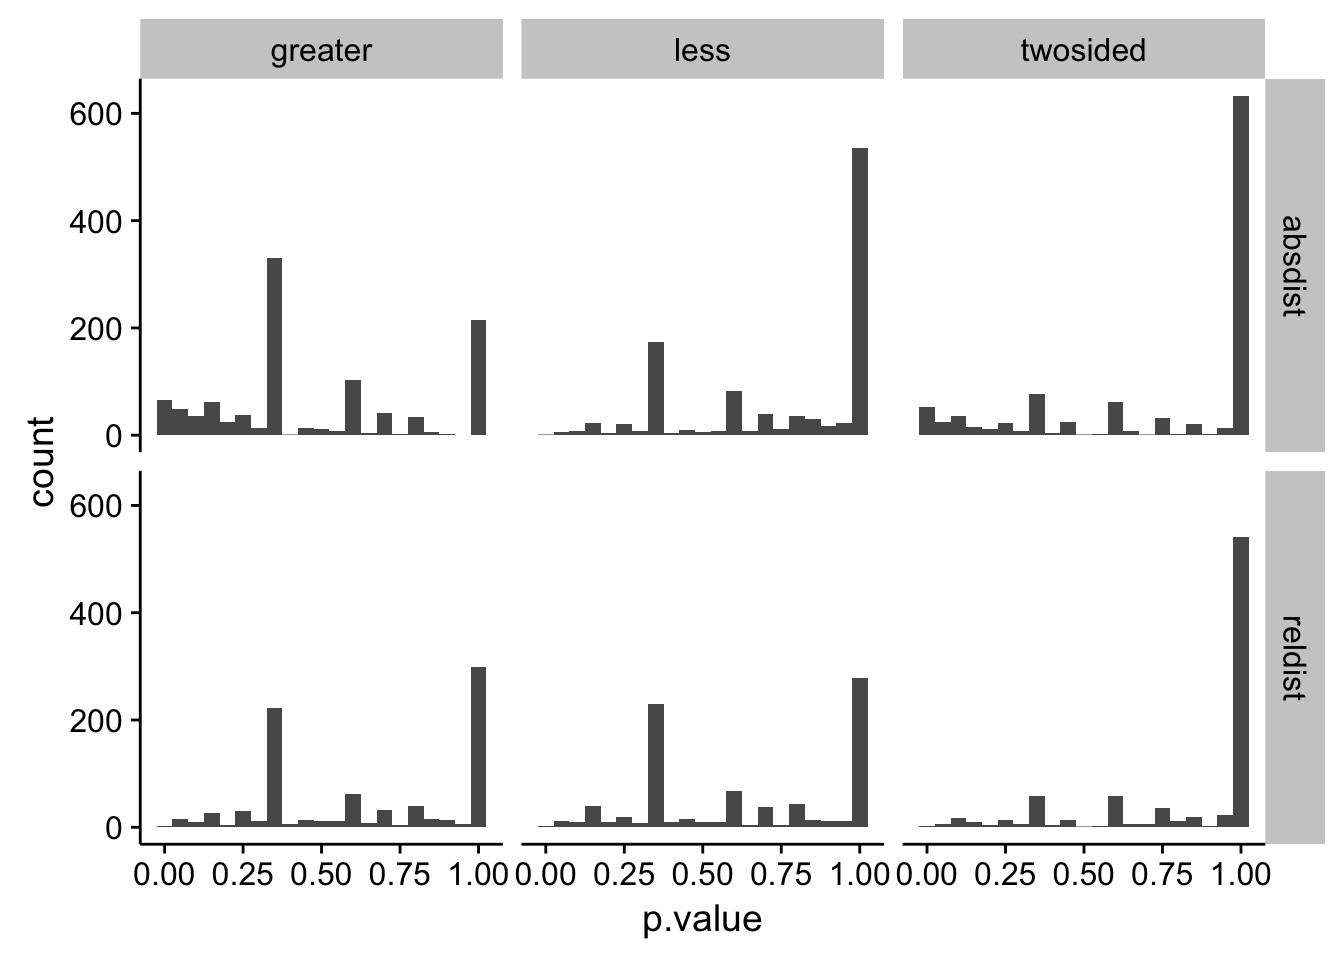
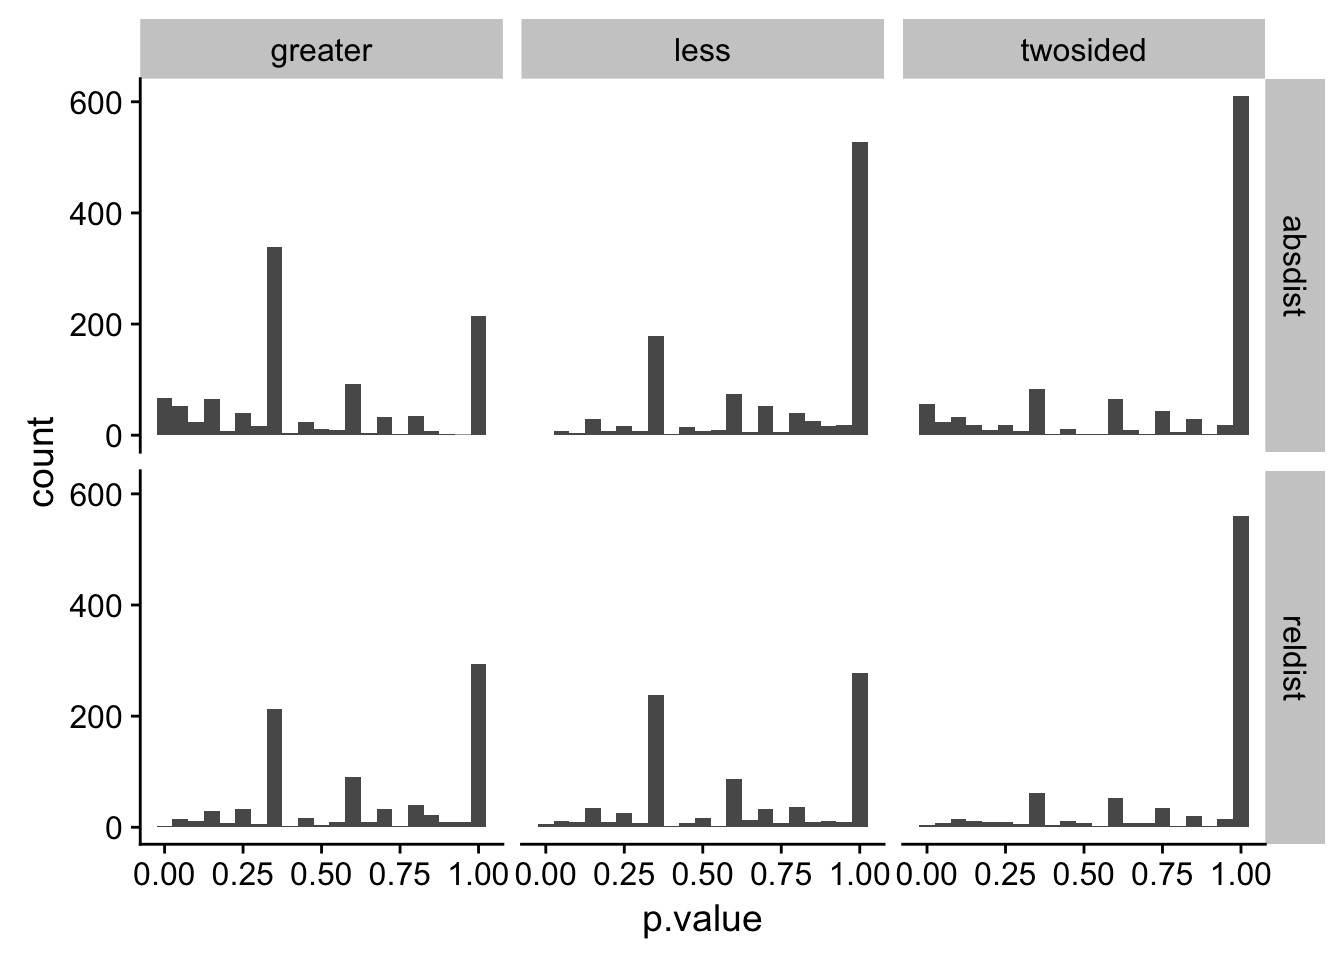
re-pkg [ci skip]

diff --git a/docs/articles/benchmarks.html b/docs/articles/benchmarks.html
@@ -74,7 +74,7 @@
     <div class="page-header toc-ignore">
       <h1>Benchmarks</h1>
             
-            <h4 class="date">July 23 2017</h4>
+            <h4 class="date">August 22 2017</h4>
           </div>
 
     
@@ -87,64 +87,65 @@
 #&gt;  ui       unknown                     
 #&gt;  language (EN)                        
 #&gt;  collate  en_US.UTF-8                 
-#&gt;  tz       America/Denver              
-#&gt;  date     2017-07-23                  
+#&gt;  tz       America/New_York            
+#&gt;  date     2017-08-22                  
 #&gt; 
-#&gt;  package        * version    date       source                        
-#&gt;  assertthat       0.2.0      2017-04-11 CRAN (R 3.4.0)                
-#&gt;  backports        1.1.0      2017-05-22 CRAN (R 3.4.0)                
-#&gt;  base           * 3.4.1      2017-07-07 local                         
-#&gt;  bindr            0.1        2016-11-13 CRAN (R 3.4.0)                
-#&gt;  bindrcpp       * 0.2        2017-06-17 CRAN (R 3.4.0)                
-#&gt;  broom            0.4.2      2017-02-13 CRAN (R 3.4.0)                
-#&gt;  colorspace       1.3-2      2016-12-14 CRAN (R 3.4.0)                
-#&gt;  compiler         3.4.1      2017-07-07 local                         
-#&gt;  datasets       * 3.4.1      2017-07-07 local                         
-#&gt;  devtools       * 1.13.2     2017-06-02 CRAN (R 3.4.0)                
-#&gt;  digest           0.6.12     2017-01-27 CRAN (R 3.4.0)                
-#&gt;  dplyr          * 0.7.2      2017-07-20 cran (@0.7.2)                 
-#&gt;  evaluate         0.10.1     2017-06-24 CRAN (R 3.4.0)                
-#&gt;  foreign          0.8-69     2017-06-22 CRAN (R 3.4.1)                
-#&gt;  ggplot2        * 2.2.1      2016-12-30 CRAN (R 3.4.0)                
-#&gt;  glue             1.1.1      2017-06-21 CRAN (R 3.4.0)                
-#&gt;  graphics       * 3.4.1      2017-07-07 local                         
-#&gt;  grDevices      * 3.4.1      2017-07-07 local                         
-#&gt;  grid             3.4.1      2017-07-07 local                         
-#&gt;  gtable           0.2.0      2016-02-26 CRAN (R 3.4.0)                
-#&gt;  hms              0.3        2016-11-22 CRAN (R 3.4.0)                
-#&gt;  htmltools        0.3.6      2017-04-28 CRAN (R 3.4.0)                
-#&gt;  knitr            1.16       2017-05-18 CRAN (R 3.4.0)                
-#&gt;  labeling         0.3        2014-08-23 CRAN (R 3.4.0)                
-#&gt;  lattice          0.20-35    2017-03-25 CRAN (R 3.4.1)                
-#&gt;  lazyeval         0.2.0      2016-06-12 CRAN (R 3.4.0)                
-#&gt;  magrittr         1.5        2014-11-22 CRAN (R 3.4.0)                
-#&gt;  memoise          1.1.0      2017-04-21 CRAN (R 3.4.0)                
-#&gt;  methods        * 3.4.1      2017-07-07 local                         
-#&gt;  microbenchmark * 1.4-2.1    2015-11-25 CRAN (R 3.4.1)                
-#&gt;  mnormt           1.5-5      2016-10-15 CRAN (R 3.4.0)                
-#&gt;  munsell          0.4.3      2016-02-13 CRAN (R 3.4.0)                
-#&gt;  nlme             3.1-131    2017-02-06 CRAN (R 3.4.1)                
-#&gt;  parallel         3.4.1      2017-07-07 local                         
-#&gt;  pkgconfig        2.0.1      2017-03-21 CRAN (R 3.4.0)                
-#&gt;  plyr             1.8.4      2016-06-08 CRAN (R 3.4.0)                
-#&gt;  psych            1.7.5      2017-05-03 CRAN (R 3.4.0)                
-#&gt;  R6               2.2.2      2017-06-17 CRAN (R 3.4.0)                
-#&gt;  Rcpp             0.12.12    2017-07-15 CRAN (R 3.4.1)                
-#&gt;  readr            1.1.1      2017-05-16 CRAN (R 3.4.0)                
-#&gt;  reshape2         1.4.2      2016-10-22 CRAN (R 3.4.0)                
-#&gt;  rlang            0.1.1.9000 2017-07-06 Github (hadley/rlang@ff87439) 
-#&gt;  rmarkdown        1.6        2017-06-15 CRAN (R 3.4.0)                
-#&gt;  rprojroot        1.2        2017-01-16 CRAN (R 3.4.0)                
-#&gt;  scales         * 0.4.1      2016-11-09 CRAN (R 3.4.0)                
-#&gt;  stats          * 3.4.1      2017-07-07 local                         
-#&gt;  stringi          1.1.5      2017-04-07 CRAN (R 3.4.0)                
-#&gt;  stringr          1.2.0      2017-02-18 CRAN (R 3.4.0)                
-#&gt;  tibble         * 1.3.3      2017-05-28 CRAN (R 3.4.0)                
-#&gt;  tidyr            0.6.3      2017-05-15 CRAN (R 3.4.0)                
-#&gt;  tools            3.4.1      2017-07-07 local                         
-#&gt;  utils          * 3.4.1      2017-07-07 local                         
-#&gt;  valr           * 0.3.1.9000 2017-07-22 Github (rnabioco/valr@79009d1)
-#&gt;  withr            1.0.2      2016-06-20 CRAN (R 3.4.0)                
+#&gt;  package        * version    date       source                          
+#&gt;  assertthat       0.2.0      2017-04-11 CRAN (R 3.4.0)                  
+#&gt;  backports        1.1.0      2017-05-22 CRAN (R 3.4.0)                  
+#&gt;  base           * 3.4.1      2017-07-07 local                           
+#&gt;  bindr            0.1        2016-11-13 CRAN (R 3.4.0)                  
+#&gt;  bindrcpp       * 0.2        2017-06-17 CRAN (R 3.4.0)                  
+#&gt;  broom            0.4.2      2017-02-13 CRAN (R 3.4.0)                  
+#&gt;  colorspace       1.3-2      2016-12-14 CRAN (R 3.4.0)                  
+#&gt;  compiler         3.4.1      2017-07-07 local                           
+#&gt;  datasets       * 3.4.1      2017-07-07 local                           
+#&gt;  devtools       * 1.13.3     2017-08-02 CRAN (R 3.4.1)                  
+#&gt;  digest           0.6.12     2017-01-27 CRAN (R 3.4.0)                  
+#&gt;  dplyr          * 0.7.2      2017-07-20 cran (@0.7.2)                   
+#&gt;  evaluate         0.10.1     2017-06-24 CRAN (R 3.4.0)                  
+#&gt;  foreign          0.8-69     2017-06-22 CRAN (R 3.4.1)                  
+#&gt;  ggplot2        * 2.2.1      2016-12-30 CRAN (R 3.4.0)                  
+#&gt;  glue             1.1.1      2017-06-21 CRAN (R 3.4.0)                  
+#&gt;  graphics       * 3.4.1      2017-07-07 local                           
+#&gt;  grDevices      * 3.4.1      2017-07-07 local                           
+#&gt;  grid             3.4.1      2017-07-07 local                           
+#&gt;  gtable           0.2.0      2016-02-26 CRAN (R 3.4.0)                  
+#&gt;  hms              0.3        2016-11-22 CRAN (R 3.4.0)                  
+#&gt;  htmltools        0.3.6      2017-04-28 CRAN (R 3.4.0)                  
+#&gt;  knitr            1.17       2017-08-10 CRAN (R 3.4.1)                  
+#&gt;  labeling         0.3        2014-08-23 CRAN (R 3.4.0)                  
+#&gt;  lattice          0.20-35    2017-03-25 CRAN (R 3.4.1)                  
+#&gt;  lazyeval         0.2.0      2016-06-12 CRAN (R 3.4.0)                  
+#&gt;  magrittr         1.5        2014-11-22 CRAN (R 3.4.0)                  
+#&gt;  memoise          1.1.0      2017-04-21 CRAN (R 3.4.0)                  
+#&gt;  methods        * 3.4.1      2017-07-07 local                           
+#&gt;  microbenchmark * 1.4-2.1    2015-11-25 CRAN (R 3.4.1)                  
+#&gt;  mnormt           1.5-5      2016-10-15 CRAN (R 3.4.0)                  
+#&gt;  munsell          0.4.3      2016-02-13 CRAN (R 3.4.0)                  
+#&gt;  nlme             3.1-131    2017-02-06 CRAN (R 3.4.1)                  
+#&gt;  parallel         3.4.1      2017-07-07 local                           
+#&gt;  pkgconfig        2.0.1      2017-03-21 CRAN (R 3.4.0)                  
+#&gt;  plyr             1.8.4      2016-06-08 CRAN (R 3.4.0)                  
+#&gt;  psych            1.7.5      2017-05-03 CRAN (R 3.4.0)                  
+#&gt;  purrr            0.2.3      2017-08-02 cran (@0.2.3)                   
+#&gt;  R6               2.2.2      2017-06-17 CRAN (R 3.4.0)                  
+#&gt;  Rcpp             0.12.12    2017-07-15 CRAN (R 3.4.1)                  
+#&gt;  readr            1.1.1      2017-05-16 CRAN (R 3.4.0)                  
+#&gt;  reshape2         1.4.2      2016-10-22 CRAN (R 3.4.0)                  
+#&gt;  rlang            0.1.2.9000 2017-08-22 Github (tidyverse/rlang@f20124b)
+#&gt;  rmarkdown        1.6        2017-06-15 CRAN (R 3.4.0)                  
+#&gt;  rprojroot        1.2        2017-01-16 CRAN (R 3.4.0)                  
+#&gt;  scales         * 0.4.1      2016-11-09 CRAN (R 3.4.0)                  
+#&gt;  stats          * 3.4.1      2017-07-07 local                           
+#&gt;  stringi          1.1.5      2017-04-07 CRAN (R 3.4.0)                  
+#&gt;  stringr          1.2.0      2017-02-18 CRAN (R 3.4.0)                  
+#&gt;  tibble         * 1.3.4      2017-08-22 cran (@1.3.4)                   
+#&gt;  tidyr            0.7.0      2017-08-16 CRAN (R 3.4.1)                  
+#&gt;  tools            3.4.1      2017-07-07 local                           
+#&gt;  utils          * 3.4.1      2017-07-07 local                           
+#&gt;  valr           * 0.3.1.9000 2017-08-17 local                           
+#&gt;  withr            2.0.0      2017-07-28 CRAN (R 3.4.1)                  
 #&gt;  yaml             2.1.14     2016-11-12 CRAN (R 3.4.0)</code></pre>
 </div>
   </div>

diff --git a/docs/articles/interval-stats.html b/docs/articles/interval-stats.html
@@ -76,7 +76,7 @@
     <div class="page-header toc-ignore">
       <h1>Interval statistics</h1>
             
-            <h4 class="date">July 23 2017</h4>
+            <h4 class="date">August 22 2017</h4>
           </div>
 
     
@@ -137,7 +137,7 @@ tss
        <span class="dt">absdist =</span> <span class="kw"><a href="../reference/bed_absdist.html">bed_absdist</a></span>(., y, genome) <span class="op">%&gt;%</span>
 <span class="st">         </span><span class="kw"><a href="http://dplyr.tidyverse.org/reference/select.html">select</a></span>(<span class="dt">.value =</span> .absdist)
        ) <span class="op">%&gt;%</span>
-<span class="st">    </span>tidyr<span class="op">::</span><span class="kw"><a href="http://www.rdocumentation.org/packages/tidyr/topics/gather_">gather_</a></span>(<span class="st">'stat'</span>, <span class="st">'value'</span>, <span class="kw"><a href="http://dplyr.tidyverse.org/reference/setops.html">setdiff</a></span>(<span class="kw">names</span>(.), <span class="kw">list</span>(group_var))) <span class="op">%&gt;%</span>
+<span class="st">    </span>tidyr<span class="op">::</span><span class="kw"><a href="http://www.rdocumentation.org/packages/tidyr/topics/deprecated-se">gather_</a></span>(<span class="st">'stat'</span>, <span class="st">'value'</span>, <span class="kw"><a href="http://dplyr.tidyverse.org/reference/setops.html">setdiff</a></span>(<span class="kw">names</span>(.), <span class="kw">list</span>(group_var))) <span class="op">%&gt;%</span>
 <span class="st">    </span><span class="kw"><a href="http://dplyr.tidyverse.org/reference/mutate.html">mutate</a></span>(<span class="dt">type =</span> type)
 } </code></pre></div>
 <p>We use the <code>distance_stats()</code> function to apply the <code><a href="../reference/bed_absdist.html">bed_absdist()</a></code> function to each group of data.</p>
@@ -177,21 +177,21 @@ shf_stats &lt;-<span class="st"> </span><span class="kw">distance_stats</span>(s
 <span class="st">  </span><span class="kw">na.omit</span>()
 
 res
-<span class="co">#&gt; # A tibble: 16,731 x 5</span>
-<span class="co">#&gt; # Groups:   name, stat [1,900]</span>
+<span class="co">#&gt; # A tibble: 16,841 x 5</span>
+<span class="co">#&gt; # Groups:   name, stat [1,909]</span>
 <span class="co">#&gt;     name    stat   .id     obs     shuf</span>
 <span class="co">#&gt;    &lt;chr&gt;   &lt;chr&gt; &lt;int&gt;   &lt;dbl&gt;    &lt;dbl&gt;</span>
-<span class="co">#&gt;  1  (A)n absdist     1 5120782 16157064</span>
-<span class="co">#&gt;  2  (A)n absdist     2  226477 15261674</span>
-<span class="co">#&gt;  3  (A)n absdist     3   31242 13210825</span>
-<span class="co">#&gt;  4  (A)n absdist     4    8930 11831284</span>
-<span class="co">#&gt;  5  (A)n absdist     5   41316  9457102</span>
-<span class="co">#&gt;  6  (A)n absdist     6   22519  4513513</span>
-<span class="co">#&gt;  7  (A)n absdist     7   15173  2182020</span>
-<span class="co">#&gt;  8  (A)n absdist     8   21985  1783307</span>
-<span class="co">#&gt;  9  (A)n absdist     9   13458    10590</span>
-<span class="co">#&gt; 10  (A)n absdist    10  134007    22867</span>
-<span class="co">#&gt; # ... with 16,721 more rows</span></code></pre></div>
+<span class="co">#&gt;  1  (A)n absdist     1 5120782 15091728</span>
+<span class="co">#&gt;  2  (A)n absdist     2  226477 14401920</span>
+<span class="co">#&gt;  3  (A)n absdist     3   31242 13317255</span>
+<span class="co">#&gt;  4  (A)n absdist     4    8930  9091216</span>
+<span class="co">#&gt;  5  (A)n absdist     5   41316  6522200</span>
+<span class="co">#&gt;  6  (A)n absdist     6   22519  4065608</span>
+<span class="co">#&gt;  7  (A)n absdist     7   15173  1785800</span>
+<span class="co">#&gt;  8  (A)n absdist     8   21985    12410</span>
+<span class="co">#&gt;  9  (A)n absdist     9   13458    14101</span>
+<span class="co">#&gt; 10  (A)n absdist    10  134007     2618</span>
+<span class="co">#&gt; # ... with 16,831 more rows</span></code></pre></div>
 <p>Now that the data are formatted, we can use the non-parametric <code>ks.test()</code> to determine whether there are significant differences between the observed and shuffled data for each group. <code><a href="http://www.rdocumentation.org/packages/broom/topics/tidy">broom::tidy()</a></code> is used to reformat the results of each test into a <code>data_frame</code>, and the results of each test are <code>gather</code>ed to into a <code>type</code> column for each test type.</p>
 <div class="sourceCode"><pre class="sourceCode r"><code class="sourceCode r"><span class="kw">library</span>(broom)
 
@@ -328,8 +328,8 @@ signif_tests &lt;-
 <span class="st">  </span><span class="kw"><a href="http://dplyr.tidyverse.org/reference/arrange.html">arrange</a></span>(type)
 
 DT<span class="op">::</span><span class="kw"><a href="http://www.rdocumentation.org/packages/DT/topics/datatable">datatable</a></span>(signif_tests)</code></pre></div>
-<div id="htmlwidget-ae66b66d7c10a952267a" style="width:100%;height:auto;" class="datatables html-widget"></div>
-<script type="application/json" data-for="htmlwidget-ae66b66d7c10a952267a">{"x":{"filter":"none","data":[["1","2","3","4","5","6","7","8","9","10"],["AluSx1","AluSx3","AluJb","Charlie4z","AluSz","MER3","L1MC4a","L1ME1","G-rich","L1MC5"],["coding","coding","coding","coding","coding","non_coding","non_coding","non_coding","non_coding","non_coding"],[364,95,271,11,259,27,23,38,54,29],[1.13727959125676e-05,0.000142248310274207,0.00022198786170069,0.00122898000927452,0.00131822309756457,2.70117007751258e-05,0.000144755028319676,0.000203406678286999,0.000217198716728206,0.000456128135381095],[2.10614752188776,2.91411990455348,2.04310989618141,5.80786134823596,1.89110543256589,8.14944717831681,7.65339387181057,5.79039667933037,4.88966830699009,6.06993307074632],["FALSE","FALSE","FALSE","FALSE","FALSE","FALSE","FALSE","FALSE","FALSE","FALSE"],[0.00203573046834959,0.0251779509185346,0.0384039000742193,0.205239661548844,0.218825034195719,0.0048080827379724,0.025476884984263,0.0355961687002249,0.0377925767107079,0.0784540392855484]],"container":"<table class=\"display\">\n  <thead>\n    <tr>\n      <th> <\/th>\n      <th>name<\/th>\n      <th>type<\/th>\n      <th>n_repeats<\/th>\n      <th>p.value<\/th>\n      <th>obs_exp_ratio<\/th>\n      <th>lower_tail<\/th>\n      <th>q.value<\/th>\n    <\/tr>\n  <\/thead>\n<\/table>","options":{"columnDefs":[{"className":"dt-right","targets":[3,4,5,7]},{"orderable":false,"targets":0}],"order":[],"autoWidth":false,"orderClasses":false}},"evals":[],"jsHooks":[]}</script>
+<div id="htmlwidget-670cdfce383e11c5e338" style="width:100%;height:auto;" class="datatables html-widget"></div>
+<script type="application/json" data-for="htmlwidget-670cdfce383e11c5e338">{"x":{"filter":"none","data":[["1","2","3","4","5","6","7","8","9","10"],["AluSx1","AluSx3","AluJb","Charlie4z","AluSz","MER3","L1MC4a","L1ME1","G-rich","L1MC5"],["coding","coding","coding","coding","coding","non_coding","non_coding","non_coding","non_coding","non_coding"],[364,95,271,11,259,27,23,38,54,29],[1.13727959125676e-05,0.000142248310274207,0.00022198786170069,0.00122898000927452,0.00131822309756457,2.70117007751258e-05,0.000144755028319676,0.000203406678286999,0.000217198716728206,0.000456128135381095],[2.10614752188776,2.91411990455348,2.04310989618141,5.80786134823596,1.89110543256589,8.14944717831681,7.65339387181057,5.79039667933037,4.88966830699009,6.06993307074632],["FALSE","FALSE","FALSE","FALSE","FALSE","FALSE","FALSE","FALSE","FALSE","FALSE"],[0.00203573046834959,0.0251779509185346,0.0384039000742193,0.205239661548844,0.218825034195719,0.0048080827379724,0.025476884984263,0.0355961687002249,0.0377925767107079,0.0784540392855484]],"container":"<table class=\"display\">\n  <thead>\n    <tr>\n      <th> <\/th>\n      <th>name<\/th>\n      <th>type<\/th>\n      <th>n_repeats<\/th>\n      <th>p.value<\/th>\n      <th>obs_exp_ratio<\/th>\n      <th>lower_tail<\/th>\n      <th>q.value<\/th>\n    <\/tr>\n  <\/thead>\n<\/table>","options":{"columnDefs":[{"className":"dt-right","targets":[3,4,5,7]},{"orderable":false,"targets":0}],"order":[],"autoWidth":false,"orderClasses":false}},"evals":[],"jsHooks":[]}</script>
 </div>
 </div>
   </div>

diff --git a/docs/reference/as.tbl_interval.html b/docs/reference/as.tbl_interval.html
@@ -130,15 +130,15 @@ objects.</p>
 
     <h2 class="hasAnchor" id="examples"><a class="anchor" href="#examples"></a>Examples</h2>
     <pre class="examples"><span class='co'># NOT RUN {</span>
-<span class='no'>gr</span> <span class='kw'>&lt;-</span> <span class='kw pkg'>GenomicRanges</span><span class='kw ns'>::</span><span class='fu'>GRanges</span>(
-        <span class='kw'>seqnames</span> <span class='kw'>=</span> <span class='kw pkg'>S4Vectors</span><span class='kw ns'>::</span><span class='fu'>Rle</span>(
+<span class='no'>gr</span> <span class='kw'>&lt;-</span> <span class='kw pkg'>GenomicRanges</span><span class='kw ns'>::</span><span class='fu'><a href='http://www.rdocumentation.org/packages/GenomicRanges/topics/GRanges-class'>GRanges</a></span>(
+        <span class='kw'>seqnames</span> <span class='kw'>=</span> <span class='kw pkg'>S4Vectors</span><span class='kw ns'>::</span><span class='fu'><a href='http://www.rdocumentation.org/packages/S4Vectors/topics/Rle-class'>Rle</a></span>(
                      <span class='fu'>c</span>(<span class='st'>"chr1"</span>, <span class='st'>"chr2"</span>, <span class='st'>"chr1"</span>, <span class='st'>"chr3"</span>),
                      <span class='fu'>c</span>(<span class='fl'>1</span>, <span class='fl'>1</span>, <span class='fl'>1</span>, <span class='fl'>1</span>)),
-        <span class='kw'>ranges</span>   <span class='kw'>=</span> <span class='kw pkg'>IRanges</span><span class='kw ns'>::</span><span class='fu'>IRanges</span>(
+        <span class='kw'>ranges</span>   <span class='kw'>=</span> <span class='kw pkg'>IRanges</span><span class='kw ns'>::</span><span class='fu'><a href='http://www.rdocumentation.org/packages/IRanges/topics/IRanges-constructor'>IRanges</a></span>(
                      <span class='kw'>start</span> <span class='kw'>=</span> <span class='fu'>c</span>(<span class='fl'>1</span>, <span class='fl'>10</span>, <span class='fl'>50</span>, <span class='fl'>100</span>),
                      <span class='kw'>end</span> <span class='kw'>=</span> <span class='fu'>c</span>(<span class='fl'>100</span>, <span class='fl'>500</span>, <span class='fl'>1000</span>, <span class='fl'>2000</span>),
                      <span class='kw'>names</span> <span class='kw'>=</span> <span class='fu'>head</span>(<span class='no'>letters</span>, <span class='fl'>4</span>)),
-        <span class='kw'>strand</span>   <span class='kw'>=</span> <span class='kw pkg'>S4Vectors</span><span class='kw ns'>::</span><span class='fu'>Rle</span>(
+        <span class='kw'>strand</span>   <span class='kw'>=</span> <span class='kw pkg'>S4Vectors</span><span class='kw ns'>::</span><span class='fu'><a href='http://www.rdocumentation.org/packages/S4Vectors/topics/Rle-class'>Rle</a></span>(
                      <span class='fu'>c</span>(<span class='st'>"-"</span>, <span class='st'>"+"</span>), <span class='fu'>c</span>(<span class='fl'>2</span>, <span class='fl'>2</span>))
       )
 

diff --git a/docs/reference/read_bed.html b/docs/reference/read_bed.html
@@ -209,9 +209,9 @@ local file or URLs. The read functions load data into tbls with consistent
 #&gt;  3  chr1 4847774 4887990 NM_001159750     0      +   4847994 4886445        0
 #&gt;  4  chr1 4847774 4887990    NM_011541     0      +   4847994 4886445        0
 #&gt;  5  chr1 4848408 4887990 NM_001159751     0      +   4848488 4886445        0
-#&gt;  6  chr1 4899656 5009620    NM_021374     0      -   4900554 5009460        0
-#&gt;  7  chr1 4899656 5060366 NM_001177795     0      -   4900554 5060258        0
-#&gt;  8  chr1 4899656 5008815 NM_001290372     0      -   4900554 4914046        0
+#&gt;  6  chr1 4899656 5008815 NM_001290372     0      -   4900554 4914046        0
+#&gt;  7  chr1 4899656 5009620    NM_021374     0      -   4900554 5009460        0
+#&gt;  8  chr1 4899656 5060366 NM_001177795     0      -   4900554 5060258        0
 #&gt;  9  chr1 5073166 5152630 NM_001310442     0      +   5074531 5152246        0
 #&gt; 10  chr1 5073166 5152630    NM_133826     0      +   5074531 5152246        0
 #&gt; # ... with 90 more rows, and 3 more variables: exon_count &lt;int&gt;,

diff --git a/docs/index.html b/docs/index.html
@@ -171,7 +171,7 @@ ucsc &lt;-<span class="st"> </span><span class="kw"><a href="reference/db.html">
 <h3 class="hasAnchor">
 <a href="#data-types" class="anchor"></a>Data types</h3>
 <ul>
-<li>Create new interval sets with <code><a href="reference/tbl_interval.html">tbl_interval()</a></code> and <code><a href="reference/tbl_genome.html">tbl_genome()</a></code>. Coerce existing <code>GenomicRanges::GRanges</code> objects with <code><a href="reference/as.tbl_interval.html">as.tbl_interval()</a></code>.</li>
+<li>Create new interval sets with <code><a href="reference/tbl_interval.html">tbl_interval()</a></code> and <code><a href="reference/tbl_genome.html">tbl_genome()</a></code>. Coerce existing <code><a href="http://www.rdocumentation.org/packages/GenomicRanges/topics/GRanges-class">GenomicRanges::GRanges</a></code> objects with <code><a href="reference/as.tbl_interval.html">as.tbl_interval()</a></code>.</li>
 </ul>
 </div>
 <div id="reading-data" class="section level3">

diff --git a/docs/reference/create_tss.html b/docs/reference/create_tss.html
@@ -130,9 +130,9 @@
 #&gt;  3  chr1 4847774 4847775 NM_001159750     0      +
 #&gt;  4  chr1 4847774 4847775    NM_011541     0      +
 #&gt;  5  chr1 4848408 4848409 NM_001159751     0      +
-#&gt;  6  chr1 5009619 5009620    NM_021374     0      -
-#&gt;  7  chr1 5060365 5060366 NM_001177795     0      -
-#&gt;  8  chr1 5008814 5008815 NM_001290372     0      -
+#&gt;  6  chr1 5008814 5008815 NM_001290372     0      -
+#&gt;  7  chr1 5009619 5009620    NM_021374     0      -
+#&gt;  8  chr1 5060365 5060366 NM_001177795     0      -
 #&gt;  9  chr1 5073166 5073167 NM_001310442     0      +
 #&gt; 10  chr1 5073166 5073167    NM_133826     0      +
 #&gt; # ... with 90 more rows</div><div class='input'>

diff --git a/docs/reference/create_utrs3.html b/docs/reference/create_utrs3.html
@@ -130,9 +130,9 @@
 #&gt;  3  chr1 4886445 4887990 NM_001159750     0      +
 #&gt;  4  chr1 4886445 4887990    NM_011541     0      +
 #&gt;  5  chr1 4886445 4887990 NM_001159751     0      +
-#&gt;  6  chr1 4899656 4900554    NM_021374     0      -
-#&gt;  7  chr1 4899656 4900554 NM_001177795     0      -
-#&gt;  8  chr1 4899656 4900554 NM_001290372     0      -
+#&gt;  6  chr1 4899656 4900554 NM_001290372     0      -
+#&gt;  7  chr1 4899656 4900554    NM_021374     0      -
+#&gt;  8  chr1 4899656 4900554 NM_001177795     0      -
 #&gt;  9  chr1 5152246 5152630 NM_001310442     0      +
 #&gt; 10  chr1 5152246 5152630    NM_133826     0      +
 #&gt; # ... with 89 more rows</div><div class='input'>

diff --git a/docs/reference/create_utrs5.html b/docs/reference/create_utrs5.html
@@ -130,9 +130,9 @@
 #&gt;  3  chr1 4847774 4847994 NM_001159750     0      +
 #&gt;  4  chr1 4847774 4847994    NM_011541     0      +
 #&gt;  5  chr1 4848408 4848488 NM_001159751     0      +
-#&gt;  6  chr1 5009460 5009620    NM_021374     0      -
-#&gt;  7  chr1 5060258 5060366 NM_001177795     0      -
-#&gt;  8  chr1 4914046 5008815 NM_001290372     0      -
+#&gt;  6  chr1 4914046 5008815 NM_001290372     0      -
+#&gt;  7  chr1 5009460 5009620    NM_021374     0      -
+#&gt;  8  chr1 5060258 5060366 NM_001177795     0      -
 #&gt;  9  chr1 5073166 5074531 NM_001310442     0      +
 #&gt; 10  chr1 5073166 5074531    NM_133826     0      +
 #&gt; # ... with 87 more rows</div><div class='input'>

diff --git a/docs/articles/valr.html b/docs/articles/valr.html
@@ -74,7 +74,7 @@
     <div class="page-header toc-ignore">
       <h1>valr overview</h1>
             
-            <h4 class="date">2017-07-23</h4>
+            <h4 class="date">2017-08-22</h4>
           </div>
 
     
